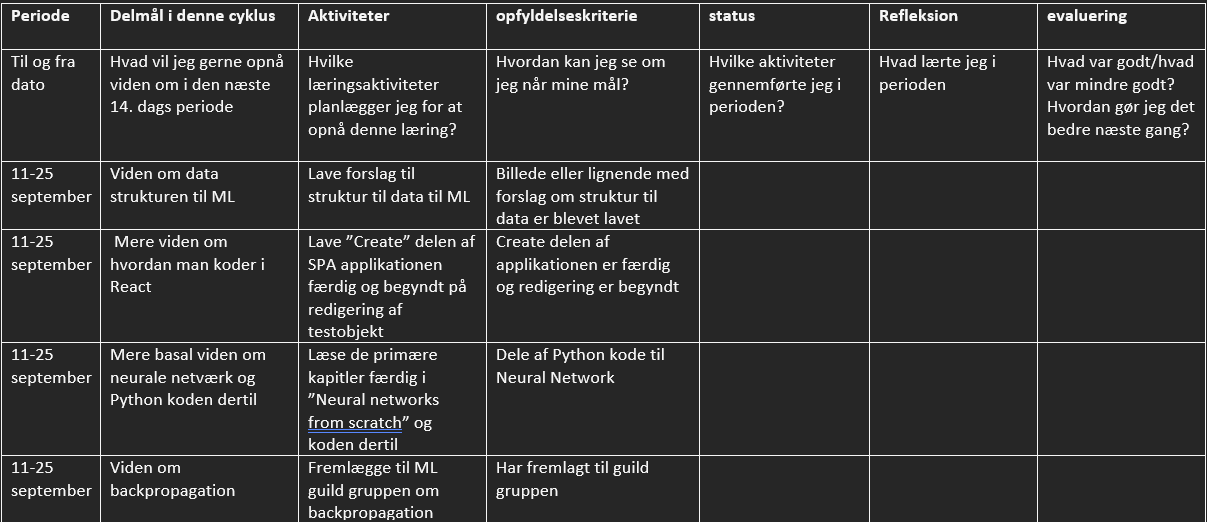
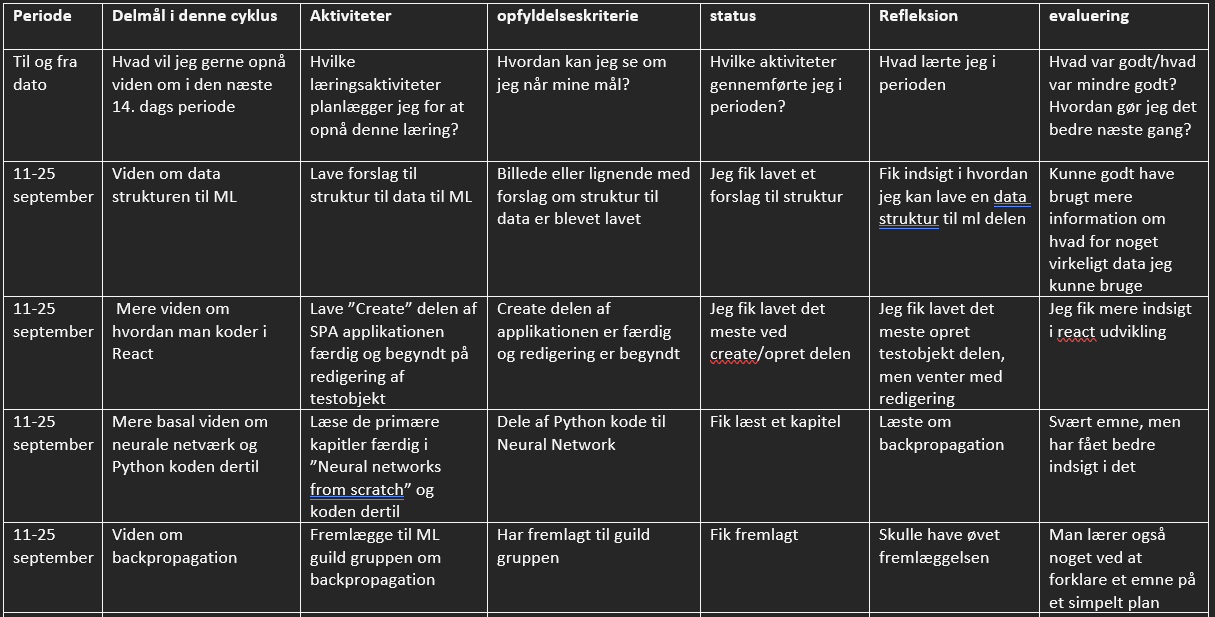
delmål post

Changed region(s): [[0.0, 0.0, 1.0, 1.0], [0.0, 0.2452, 0.2146, 0.3985], [0.9809, 0.3065, 1.0, 0.3372]]

diff --git a/_posts/2023-08-16-partgoals4.html b/_posts/2023-08-16-partgoals4.html
@@ -1,0 +1,22 @@
+---
+layout: post
+title: "Delmål Uge 37-38"
+subtitle: "Læringsplan, hvor man kan se, hvad jeg har tænkt at arbejde med de næste to uger"
+date: 2023-09-25 4:45:13 -0400
+background: "/img/posts/kanban.png"
+---
+
+<p>
+  Delmål 1: Bedre forståelse af backpropagation gennem Youtube videoer og
+  læsning
+</p>
+<p>
+  Delmål 2: Bedre forståelse af React ved at blive helt færdig med oprettelse af
+  testobjekt og komme i gang med visning af testobjekt i React
+</p>
+<p>
+  Delmål 3: Til ML delen begynde på at forstå koden andre har skrevet til deres
+  ml model, ved at se og redigere koden til mit eget formål
+</p>
+
+<img src="/img/posts/delmål4.png" style="max-width: 100%" />
